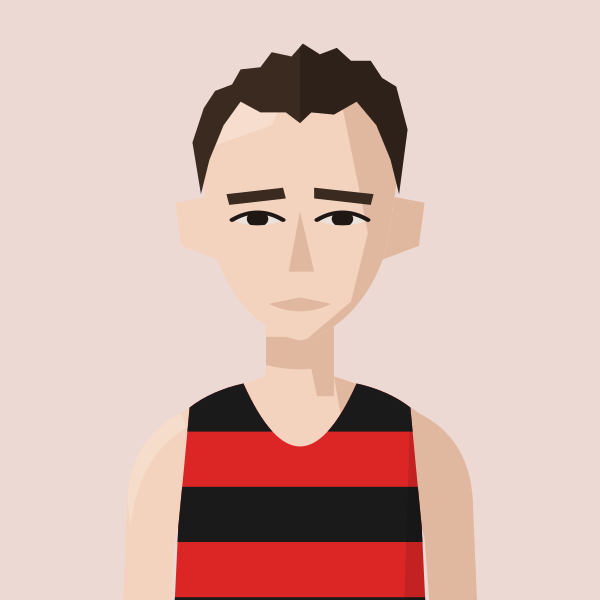
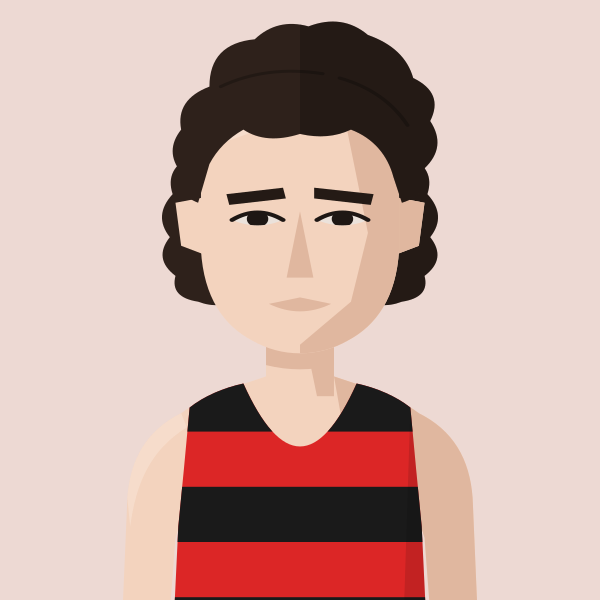
Redraw Dave Glassborow portrait: bushy hair, round face, big chin
Claude-Session: https://claude.ai/code/session_01MgmDWhFqnSSnP4iBLKXUZC

Changed region(s): [[0.27, 0.03, 0.75, 0.57], [0.45, 0.54, 0.51, 0.6], [0.48, 0.45, 0.54, 0.48]]

diff --git a/files/index.html b/files/index.html
@@ -887,7 +887,7 @@ const portraitFile=(name,club)=>{const k=normalizeNameForCompare(name||'').repla
 const portraitClubOf=(name,clubs)=>{for(const c of clubs||[]){if(c&&portraitFile(name,c))return c;}return null;}; /* first of these clubs we have a portrait for */
 // Athlete header figure: superstar portrait if we have one, else a grey runner in the club vest, else the plain vest icon
 // Changes whenever any portrait changes (set by tools/build_og.py), so browsers fetch fresh images instead of old cached ones
-const PORTRAIT_V='babcc696';const PORTRAIT_WOMEN='abbey-brooke,abbie-bulbulian,adele-prince,aimee-hargreaves,aisling-ahern,alex-brown,alex-gandee,alex-marginean,alex-miller,alexa-parker,alexandra-barbour,alice-braham,alice-bridger-morales,alice-crane,alice-martin,alice-reed,alice-smith,alison-purnell,alison-thomson,amelia-pettitt,amy-clements,andrea-barber,anika-schwarze-chintapatla,anna-garnier,anna-garnier-hw,anna-sharp,annabel-hobday,annabelle-hadlow,anne-hegvold,annmarie-seymour,ava-mcandie,becky-briggs,bethan-goddard,bethanie-murray,bethany-brown,betsy-griffiths,billie-mcclosky,camilla-barden,caoimhe-nic-fhogartaigh,carolyne-baxter,catherine-bryson,catherine-eastham,catherine-kandie,cathy-ansell,charlotte-griffiths,chloe-beckett,chloe-tighe,chrissie-wellington,claire-grima,clara-pettit,clare-elms,clare-pauzers,dillan-quinn,dorchie-cockerell,eilidh-hide,elinor-skinner,eliza-grant,elizabeth-apsley,elizabeth-stavreski,ella-fennelly,ella-king-powrie,ella-may-hards,ella-newton,ellen-weir,ellie-brown,ellie-freeden,eloise-bull,emilie-arnoux,emily-barrett,emily-bradley,emily-lowery,emily-robbins,emma-bond,emma-gordon,emma-howsham,emma-lord,emma-rowland,estle-viljoen,evie-warren,felicity-cole,felicity-harrison,felicity-hayward,fi-maddocks,fiona-clark,fiona-de-mauny,florence-wiggins,gabby-collison,gabriel-reynolds,gemma-newport,genevieve-blanch,georgia-curry,georgie-bruinvels,georgie-fenn,georgie-furze,georgie-grgec,gina-galbraith,grace-leyland,grace-richardson,hannah-edwards,hannah-english,hayley-munn,hayley-munn-cc,heather-statham,heather-statham-cc,helen-alsop,helena-corbin,helena-keenan,holly-nixon,holly-pan,imogen-mackie,imogen-wolsey,iona-cousland,isabel-bradley,isabel-brinsden,isabel-hodder,isabelle-pickett,jennifer-nandi,jennifer-smith,jess-reed,jess-saunders,jess-winfield,jessica-davies,jessica-lowe,jodie-favell,jon-hobbs,josephine-rhodes,julia-bleasdale,julia-wedmore,juliet-hodder,juliette-clark,jurgita-levertaviciute,justine-lynch,karen-fenner,karen-xiang,karina-box,kate-axford,kate-williams,kathy-sharpe,katie-ellen-french,katie-good,katie-snowden,katy-hedgethorne,kitty-shepherd-cross,kristina-popadich,lara-bromilow,lara-mangan,laura-goodson,laura-miles,lauren-major,lea-adamson,lily-newton,lisa-bailey,lisa-thomas,lisa-thomas-hw,lizzie-goldie-scot,louise-cooper,lucy-jones,lucy-macalister,lucy-peters,lydia-blackmore,lydia-gallyer-barnett,maddie-mastrolonardo,maddy-whitman,maeve-kenny,margaret-coogan,martina-conner,mary-james,mary-setyabule,matilde-lomba,megan-gildea,mel-wilkins,mhairi-hall,mimi-corden-lloyd,molly-oconnor,molly-smith,monika-gajek,naomi-lenane,natalie-beadle,natalie-seymour,natasha-lodge,niamh-thompson,nicky-hayes,nicola-cartlidge,nicola-douglas,nikki-haines,nikki-sturzaker,nina-mills,olivia-papaioannou,olivia-stillman,orna-mcginley,pamela-mchutchon,patricia-walker,patrizia-gnoato,penny-oliver,rachel-brown,rebecca-barrow,rebekah-edgar,rosie-powell,ruby-carter,ruby-whyte-wilding,ruby-woolfe,sally-urquhart,sally-young,sally-young-slh,sam-whiting,samantha-munday,sarah-astin,sarah-dewhirst,sarah-grover,sarah-hanley,sarah-holt,sarah-murphy,sarah-palmer,sarah-palmer-ran,sarah-riceman,sarah-young,saron-haileselase,serena-carter,sophie-cowper,sophie-harris,sophie-hicks,sophie-tooley,stacey-ward,steph-hewitt,steph-mccall,steph-mccall-cc,steph-mccall-slh,steph-mitchell,suzanne-swaine,suze-spalding,suzie-harvey,suzy-whatmough,syreeta-stracey,teresa-murphy,tilly-heaton,tilly-heaton-bel,tish-jones,vic-cartwright,vicky-clarke,vicky-edwards,victoria-barthelmess,victoria-buck,vikki-filsell,zoe-doyle,zoe-macdonald,zuzana-nemeckova';const PORTRAIT_MEN='aaron-wilson,abdulla-elsadig,adam-leane,adrian-major,adrien-royer,alan-black,alan-mead,alex-brecker,alex-bruce-littlewood,alex-gutteridge,alex-harris,alex-howard,alex-janiaud,alex-lee,alex-lennon,alex-mills,alex-milne,alex-morales,alex-robinson,alex-yee,alexander-marks,alister-moses,amittai-ben-israel,andrew-cumine,andrew-green,andrew-penney,andrew-perfect,andrew-simms,andrew-warburton,andrius-jaksevicius,andy-coley-maud,andy-coley-maud-cc,andy-fyfe,andy-north,andy-paton,andy-thomas,andy-thomas-thh,andy-weir,angus-butler,angus-lamb,anisse-ismaili,arlo-ludewick,arne-dumez,arthur-peel,ashley-goncalves,barnaby-day,barry-collins,barry-sawyer,ben-clarke,ben-coughlan,ben-harding,ben-hurley,ben-ireland,ben-millar,ben-paviour,ben-pearce,ben-racle,ben-revill,ben-reynolds,ben-scott,ben-toomer,benedict-whitby,benjamin-hilson,bernie-ford,bill-kerr,bill-weller,bill-weller-wal,bob-harrison,bob-holt,bob-lunnon,bob-rayman,bob-smith,bob-treadwell,bradley-courtney-pinn,brandon-dewar,brian-gorman,brian-wilder,caleb-hathaway,callum-stewart,cameron-dockerill,cameron-reilly,carl-delaney,charles-herrington,charlie-dabbs,charlie-dickinson,charlie-eastaugh,charlie-manning,charlie-pickett,charlie-rogers,charlie-sandison,charlie-walker,charlie-wyllie,che-compton,chris-busaileh,chris-busaileh-hhh,chris-greenwood,chris-keavey,chris-moss,chris-steer,chris-threadgold,chris-warren,christian-lee,christopher-parker,clive-gilby,clive-shippen,colin-high,colin-pearson,conall-mcnally,conall-whelan,craig-ruddy,dame-dibaba,dan-cliffe,dan-pettitt,daniel-shaw,daniel-wolff,darren-mead,dave-beard,dave-beaver,dave-clarke,dave-glassborow,dave-hill,dave-holt,dave-taylor,david-anderson,david-bowers,david-grima,david-north,david-ogden,david-symons,david-walsh,david-williams,deron-fagan,dick-piotrowski,dimos-evangelidis,dom-nolan,dominic-kiralyfi,don-anderson,don-faircloth,don-maclean,doug-maughan,duncan-rimmer,dylan-evans,dylan-mitchard,ed-brewer,ed-catmur,ed-gibson,ed-mallett,ed-prickett,eddie-herridge,eddie-jodrell,eddie-rolls,edward-chuck,eoin-brady,eoin-molloy,ethan-mccolgan,falilou-kebe,findlay-dyer,finn-johnson,fintan-pearce,frank-tickner,frank-ward,fred-paget,fred-slemeck,fred-stebbings,freddie-hessian,garret-lee,gary-ribbons,gary-ribbons-ee,gary-staines,gary-staines-bel,gavin-eccles,geoff-biscoe,geoff-jerwood,geoff-north,george-cotton,george-gathercole,george-jackson,george-loxton,george-mallett,george-ogden,gerry-adams,gerry-north,glen-keegan,gordon-pearce,graham-macky,grenville-tuck,harrison-hayman,harry-guttridge,hector-revill,henry-hart,henry-silverstein,hugo-hewitt,huw-lobb,ian-acreman,ian-crowe-wright,ian-ellwood,ian-harkness,indy-barnes,isaac-lutaya,isaac-parker,jack-brotchie,jack-dickson,jack-dormer,jack-hampshire,jack-harrison,jack-hobden,jack-kavanagh,jack-millar,jack-ramm,jack-woods,jacob-brockmann,jake-simmonds,james-bartram,james-blackwood,james-bowler,james-estall,james-ewing,james-fox,james-hancock,james-harvey,james-hoad,james-kelly,james-mcmullan,james-murray,james-nutt,james-preston,james-roberts,james-stockings,james-ward,james-wootton,jamie-crowe,jamie-parkinson,jared-martin,jean-paul-wright,jeff-cunningham,jeremy-dempsey,jermaine-mays,jerry-watson,jim-allchin,jim-rimmer,joachim-wolf,joe-english,joe-hartley,john-baker,john-bicourt,john-bromley,john-davies,john-dear,john-foss,john-foxall,john-gilbert,john-gladwin,john-hutchins,john-kendall,john-kimaiyo,john-lee,john-lethbridge,john-mather,john-moore,john-roberts,john-sanderson,john-snowden,john-stow,john-sullivan,john-thresher,jon-pepper,jon-pepper-slh,jon-phillips,jon-solly,jonathan-cocker,jonathan-collier,jonathan-cornish,jonathan-ratcliffe,jonathan-tipper,jonny-neville,jonny-scott,jordan-weaver,josh-mitchell,josh-snow,josh-trigwell,jules-gevers,junior-galley,justin-chaston,justin-reid,kassa-tadesse,keith-newton,ken-penney,ken-penney-cro,kevin-nash,kevin-quinn,kevin-sturman,kieran-barnes,kieran-white,knut-hegvold,knut-hegvold-bel,larry-ryan,lawrence-avery,lee-lintern,leo-coy,les-presland,les-presland-sur,lewis-lloyd,liam-burthem,lionel-mann,lloyd-kempson,luke-caldwell,macgregor-cox,mack-downie,malachi-byansi,marcello-bizio,marcelo-fortes,marco-mazzotta,mark-anderson,mark-miles,mark-sinclair,mark-tennyson,mark-waller,martin-dent,martin-duff,martin-lake,martin-lewington,martin-shore,mathew-speed,matt-chaston,matt-jones,matt-wood,matt-yates,matthew-edgar,matthew-houchell,matthew-thomas,matthew-varley,max-bloor,max-heyden,max-milarvie,max-nicholls,michael-baker,michael-mccarthy,mick-gowan,mick-woods,mike-beevor,mike-boyle,mike-cummings,mike-farmery,mike-fuller,mike-hayes,mike-kortenray,mike-nouch,mohammed-ismail,monty-hudson,morgan-roberts,nathan-visick,neil-chisholm,neil-phillips,neil-speaight,neil-wilson,nic-lukies,nick-acfield,nick-altmann,nick-bester,nick-bester-hhh,nick-buckle,nick-bundle,nick-goolab,nick-lightfoot,nick-morris,nick-torry,noah-fernandez,norman-stairs,oli-carrington,oliver-carrington,oliver-fox,oliver-reynolds,oliver-young,ollie-foote,ollie-garrod,olly-buck,owen-hind,paddy-roddy,pancho-panchev,paskar-owor,pat-newell,patrick-mcdougall,paul-calver,paul-cheetham,paul-evans,paul-freary,paul-magner,paul-pollock,paul-sanderson,paul-sanderson-wok,pete-carton,pete-gardner,peter-clarke,peter-giles,peter-giles-thh,peter-lighting,phil-carstairs,phil-sanders,phil-sesemann,phil-swinburn,phil-wicks,phil-woodford-smith,raj-paranandi,ralph-street,ranjit-bhatia,ray-foley,reece-edwards,rhys-boorman,rian-mccawley,richard-ashe,richard-giles,richard-henderson,richard-langley,richard-mcdowell,richard-ollington,richard-partridge,richard-sun,richard-ward,rob-armstrong,rob-kelly,rob-tuer,robert-elphick,robert-laing,robert-norville,robert-peacock,robert-sesemann,robin-boon,robin-hudson,roger-alsop,roger-alsop-bel,roger-hackney,ron-clark,ron-linstead,ronan-tanguy,rory-mcmahon,rory-orsborn,ross-braden,ross-christie,rowan-board,rowan-crichton,russell-dessaix-chin,ryan-hickey,ryan-mccallister,sam-bramwell,sam-charlton,sam-gebreselassie,sam-haughian,sam-peters,sam-sommerville,sam-tyas,samuel-dames,samuel-wilcock,sean-cordon,sebastian-anthony,simon-baines,simon-coombes,simon-coppard,simon-fairbrother,simon-holmes,simon-rayner,simon-rayner-hw,simon-wade,simon-wade-hhh,simon-waterhouse,simon-williams,simon-wurr,sonny-nicoll,spencer-barden,stephen-mcleod,stephen-sharp,steve-badgery,steve-badgery-mit,steve-gardner,steve-jones,steve-smythe,steve-smythe-hhh,stuart-beaney,stuart-major,stuart-major-thh,stuart-mccallum,stuart-paton,terry-booth,thomas-dugre,thomas-gandee,thomas-gardner,thomas-renshaw,tim-alexander,tim-eglen,tim-lawrence,tim-watson,toby-cooke,toby-fletcher,tom-austin,tom-cheetham,tom-conlon,tom-davies,tom-gifford,tom-higgs,tom-jervis,tom-lole,tom-south,tom-thornley,tommy-taylor,tony-binda,tony-fairclough,tony-harran,trevor-hart,trevor-williams,valdis-pauzers,valentin-rigori,vic-maughan,wayne-oxborough,will-cockerell,will-lewis,will-marshall,will-scott,will-stockley,william-gardner,yacin-yusuf,zach-nolan';
+const PORTRAIT_V='4b6464d2';const PORTRAIT_WOMEN='abbey-brooke,abbie-bulbulian,adele-prince,aimee-hargreaves,aisling-ahern,alex-brown,alex-gandee,alex-marginean,alex-miller,alexa-parker,alexandra-barbour,alice-braham,alice-bridger-morales,alice-crane,alice-martin,alice-reed,alice-smith,alison-purnell,alison-thomson,amelia-pettitt,amy-clements,andrea-barber,anika-schwarze-chintapatla,anna-garnier,anna-garnier-hw,anna-sharp,annabel-hobday,annabelle-hadlow,anne-hegvold,annmarie-seymour,ava-mcandie,becky-briggs,bethan-goddard,bethanie-murray,bethany-brown,betsy-griffiths,billie-mcclosky,camilla-barden,caoimhe-nic-fhogartaigh,carolyne-baxter,catherine-bryson,catherine-eastham,catherine-kandie,cathy-ansell,charlotte-griffiths,chloe-beckett,chloe-tighe,chrissie-wellington,claire-grima,clara-pettit,clare-elms,clare-pauzers,dillan-quinn,dorchie-cockerell,eilidh-hide,elinor-skinner,eliza-grant,elizabeth-apsley,elizabeth-stavreski,ella-fennelly,ella-king-powrie,ella-may-hards,ella-newton,ellen-weir,ellie-brown,ellie-freeden,eloise-bull,emilie-arnoux,emily-barrett,emily-bradley,emily-lowery,emily-robbins,emma-bond,emma-gordon,emma-howsham,emma-lord,emma-rowland,estle-viljoen,evie-warren,felicity-cole,felicity-harrison,felicity-hayward,fi-maddocks,fiona-clark,fiona-de-mauny,florence-wiggins,gabby-collison,gabriel-reynolds,gemma-newport,genevieve-blanch,georgia-curry,georgie-bruinvels,georgie-fenn,georgie-furze,georgie-grgec,gina-galbraith,grace-leyland,grace-richardson,hannah-edwards,hannah-english,hayley-munn,hayley-munn-cc,heather-statham,heather-statham-cc,helen-alsop,helena-corbin,helena-keenan,holly-nixon,holly-pan,imogen-mackie,imogen-wolsey,iona-cousland,isabel-bradley,isabel-brinsden,isabel-hodder,isabelle-pickett,jennifer-nandi,jennifer-smith,jess-reed,jess-saunders,jess-winfield,jessica-davies,jessica-lowe,jodie-favell,jon-hobbs,josephine-rhodes,julia-bleasdale,julia-wedmore,juliet-hodder,juliette-clark,jurgita-levertaviciute,justine-lynch,karen-fenner,karen-xiang,karina-box,kate-axford,kate-williams,kathy-sharpe,katie-ellen-french,katie-good,katie-snowden,katy-hedgethorne,kitty-shepherd-cross,kristina-popadich,lara-bromilow,lara-mangan,laura-goodson,laura-miles,lauren-major,lea-adamson,lily-newton,lisa-bailey,lisa-thomas,lisa-thomas-hw,lizzie-goldie-scot,louise-cooper,lucy-jones,lucy-macalister,lucy-peters,lydia-blackmore,lydia-gallyer-barnett,maddie-mastrolonardo,maddy-whitman,maeve-kenny,margaret-coogan,martina-conner,mary-james,mary-setyabule,matilde-lomba,megan-gildea,mel-wilkins,mhairi-hall,mimi-corden-lloyd,molly-oconnor,molly-smith,monika-gajek,naomi-lenane,natalie-beadle,natalie-seymour,natasha-lodge,niamh-thompson,nicky-hayes,nicola-cartlidge,nicola-douglas,nikki-haines,nikki-sturzaker,nina-mills,olivia-papaioannou,olivia-stillman,orna-mcginley,pamela-mchutchon,patricia-walker,patrizia-gnoato,penny-oliver,rachel-brown,rebecca-barrow,rebekah-edgar,rosie-powell,ruby-carter,ruby-whyte-wilding,ruby-woolfe,sally-urquhart,sally-young,sally-young-slh,sam-whiting,samantha-munday,sarah-astin,sarah-dewhirst,sarah-grover,sarah-hanley,sarah-holt,sarah-murphy,sarah-palmer,sarah-palmer-ran,sarah-riceman,sarah-young,saron-haileselase,serena-carter,sophie-cowper,sophie-harris,sophie-hicks,sophie-tooley,stacey-ward,steph-hewitt,steph-mccall,steph-mccall-cc,steph-mccall-slh,steph-mitchell,suzanne-swaine,suze-spalding,suzie-harvey,suzy-whatmough,syreeta-stracey,teresa-murphy,tilly-heaton,tilly-heaton-bel,tish-jones,vic-cartwright,vicky-clarke,vicky-edwards,victoria-barthelmess,victoria-buck,vikki-filsell,zoe-doyle,zoe-macdonald,zuzana-nemeckova';const PORTRAIT_MEN='aaron-wilson,abdulla-elsadig,adam-leane,adrian-major,adrien-royer,alan-black,alan-mead,alex-brecker,alex-bruce-littlewood,alex-gutteridge,alex-harris,alex-howard,alex-janiaud,alex-lee,alex-lennon,alex-mills,alex-milne,alex-morales,alex-robinson,alex-yee,alexander-marks,alister-moses,amittai-ben-israel,andrew-cumine,andrew-green,andrew-penney,andrew-perfect,andrew-simms,andrew-warburton,andrius-jaksevicius,andy-coley-maud,andy-coley-maud-cc,andy-fyfe,andy-north,andy-paton,andy-thomas,andy-thomas-thh,andy-weir,angus-butler,angus-lamb,anisse-ismaili,arlo-ludewick,arne-dumez,arthur-peel,ashley-goncalves,barnaby-day,barry-collins,barry-sawyer,ben-clarke,ben-coughlan,ben-harding,ben-hurley,ben-ireland,ben-millar,ben-paviour,ben-pearce,ben-racle,ben-revill,ben-reynolds,ben-scott,ben-toomer,benedict-whitby,benjamin-hilson,bernie-ford,bill-kerr,bill-weller,bill-weller-wal,bob-harrison,bob-holt,bob-lunnon,bob-rayman,bob-smith,bob-treadwell,bradley-courtney-pinn,brandon-dewar,brian-gorman,brian-wilder,caleb-hathaway,callum-stewart,cameron-dockerill,cameron-reilly,carl-delaney,charles-herrington,charlie-dabbs,charlie-dickinson,charlie-eastaugh,charlie-manning,charlie-pickett,charlie-rogers,charlie-sandison,charlie-walker,charlie-wyllie,che-compton,chris-busaileh,chris-busaileh-hhh,chris-greenwood,chris-keavey,chris-moss,chris-steer,chris-threadgold,chris-warren,christian-lee,christopher-parker,clive-gilby,clive-shippen,colin-high,colin-pearson,conall-mcnally,conall-whelan,craig-ruddy,dame-dibaba,dan-cliffe,dan-pettitt,daniel-shaw,daniel-wolff,darren-mead,dave-beard,dave-beaver,dave-clarke,dave-glassborow,dave-hill,dave-holt,dave-taylor,david-anderson,david-bowers,david-grima,david-north,david-ogden,david-symons,david-walsh,david-williams,deron-fagan,dick-piotrowski,dimos-evangelidis,dom-nolan,dominic-kiralyfi,don-anderson,don-faircloth,don-maclean,doug-maughan,duncan-rimmer,dylan-evans,dylan-mitchard,ed-brewer,ed-catmur,ed-gibson,ed-mallett,ed-prickett,eddie-herridge,eddie-jodrell,eddie-rolls,edward-chuck,eoin-brady,eoin-molloy,ethan-mccolgan,falilou-kebe,findlay-dyer,finn-johnson,fintan-pearce,frank-tickner,frank-ward,fred-paget,fred-slemeck,fred-stebbings,freddie-hessian,garret-lee,gary-ribbons,gary-ribbons-ee,gary-staines,gary-staines-bel,gavin-eccles,geoff-biscoe,geoff-jerwood,geoff-north,george-cotton,george-gathercole,george-jackson,george-loxton,george-mallett,george-ogden,gerry-adams,gerry-north,glen-keegan,gordon-pearce,graham-macky,grenville-tuck,harrison-hayman,harry-guttridge,hector-revill,henry-hart,henry-silverstein,hugo-hewitt,huw-lobb,ian-acreman,ian-crowe-wright,ian-ellwood,ian-harkness,indy-barnes,isaac-lutaya,isaac-parker,jack-brotchie,jack-dickson,jack-dormer,jack-hampshire,jack-harrison,jack-hobden,jack-kavanagh,jack-millar,jack-ramm,jack-woods,jacob-brockmann,jake-simmonds,james-bartram,james-blackwood,james-bowler,james-estall,james-ewing,james-fox,james-hancock,james-harvey,james-hoad,james-kelly,james-mcmullan,james-murray,james-nutt,james-preston,james-roberts,james-stockings,james-ward,james-wootton,jamie-crowe,jamie-parkinson,jared-martin,jean-paul-wright,jeff-cunningham,jeremy-dempsey,jermaine-mays,jerry-watson,jim-allchin,jim-rimmer,joachim-wolf,joe-english,joe-hartley,john-baker,john-bicourt,john-bromley,john-davies,john-dear,john-foss,john-foxall,john-gilbert,john-gladwin,john-hutchins,john-kendall,john-kimaiyo,john-lee,john-lethbridge,john-mather,john-moore,john-roberts,john-sanderson,john-snowden,john-stow,john-sullivan,john-thresher,jon-pepper,jon-pepper-slh,jon-phillips,jon-solly,jonathan-cocker,jonathan-collier,jonathan-cornish,jonathan-ratcliffe,jonathan-tipper,jonny-neville,jonny-scott,jordan-weaver,josh-mitchell,josh-snow,josh-trigwell,jules-gevers,junior-galley,justin-chaston,justin-reid,kassa-tadesse,keith-newton,ken-penney,ken-penney-cro,kevin-nash,kevin-quinn,kevin-sturman,kieran-barnes,kieran-white,knut-hegvold,knut-hegvold-bel,larry-ryan,lawrence-avery,lee-lintern,leo-coy,les-presland,les-presland-sur,lewis-lloyd,liam-burthem,lionel-mann,lloyd-kempson,luke-caldwell,macgregor-cox,mack-downie,malachi-byansi,marcello-bizio,marcelo-fortes,marco-mazzotta,mark-anderson,mark-miles,mark-sinclair,mark-tennyson,mark-waller,martin-dent,martin-duff,martin-lake,martin-lewington,martin-shore,mathew-speed,matt-chaston,matt-jones,matt-wood,matt-yates,matthew-edgar,matthew-houchell,matthew-thomas,matthew-varley,max-bloor,max-heyden,max-milarvie,max-nicholls,michael-baker,michael-mccarthy,mick-gowan,mick-woods,mike-beevor,mike-boyle,mike-cummings,mike-farmery,mike-fuller,mike-hayes,mike-kortenray,mike-nouch,mohammed-ismail,monty-hudson,morgan-roberts,nathan-visick,neil-chisholm,neil-phillips,neil-speaight,neil-wilson,nic-lukies,nick-acfield,nick-altmann,nick-bester,nick-bester-hhh,nick-buckle,nick-bundle,nick-goolab,nick-lightfoot,nick-morris,nick-torry,noah-fernandez,norman-stairs,oli-carrington,oliver-carrington,oliver-fox,oliver-reynolds,oliver-young,ollie-foote,ollie-garrod,olly-buck,owen-hind,paddy-roddy,pancho-panchev,paskar-owor,pat-newell,patrick-mcdougall,paul-calver,paul-cheetham,paul-evans,paul-freary,paul-magner,paul-pollock,paul-sanderson,paul-sanderson-wok,pete-carton,pete-gardner,peter-clarke,peter-giles,peter-giles-thh,peter-lighting,phil-carstairs,phil-sanders,phil-sesemann,phil-swinburn,phil-wicks,phil-woodford-smith,raj-paranandi,ralph-street,ranjit-bhatia,ray-foley,reece-edwards,rhys-boorman,rian-mccawley,richard-ashe,richard-giles,richard-henderson,richard-langley,richard-mcdowell,richard-ollington,richard-partridge,richard-sun,richard-ward,rob-armstrong,rob-kelly,rob-tuer,robert-elphick,robert-laing,robert-norville,robert-peacock,robert-sesemann,robin-boon,robin-hudson,roger-alsop,roger-alsop-bel,roger-hackney,ron-clark,ron-linstead,ronan-tanguy,rory-mcmahon,rory-orsborn,ross-braden,ross-christie,rowan-board,rowan-crichton,russell-dessaix-chin,ryan-hickey,ryan-mccallister,sam-bramwell,sam-charlton,sam-gebreselassie,sam-haughian,sam-peters,sam-sommerville,sam-tyas,samuel-dames,samuel-wilcock,sean-cordon,sebastian-anthony,simon-baines,simon-coombes,simon-coppard,simon-fairbrother,simon-holmes,simon-rayner,simon-rayner-hw,simon-wade,simon-wade-hhh,simon-waterhouse,simon-williams,simon-wurr,sonny-nicoll,spencer-barden,stephen-mcleod,stephen-sharp,steve-badgery,steve-badgery-mit,steve-gardner,steve-jones,steve-smythe,steve-smythe-hhh,stuart-beaney,stuart-major,stuart-major-thh,stuart-mccallum,stuart-paton,terry-booth,thomas-dugre,thomas-gandee,thomas-gardner,thomas-renshaw,tim-alexander,tim-eglen,tim-lawrence,tim-watson,toby-cooke,toby-fletcher,tom-austin,tom-cheetham,tom-conlon,tom-davies,tom-gifford,tom-higgs,tom-jervis,tom-lole,tom-south,tom-thornley,tommy-taylor,tony-binda,tony-fairclough,tony-harran,trevor-hart,trevor-williams,valdis-pauzers,valentin-rigori,vic-maughan,wayne-oxborough,will-cockerell,will-lewis,will-marshall,will-scott,will-stockley,william-gardner,yacin-yusuf,zach-nolan';
 // Runners whose dog pops up on their own profile page (a -dog.svg version of their portrait)
 const PROFILE_DOGS=new Set(['john-sanderson','penny-oliver','james-hancock','angus-butler']);
 const AthletePortrait=({name,club,w,fill,onClick,blink})=>{const[failed,setFailed]=useState(false);const file=portraitFile(name,club);const src0=file?`/portraits/athletes/${file}.svg?v=${PORTRAIT_V}`:PORTRAIT_CLUBS.has(club)?`/portraits/clubs/${club.replace(/\//g,'').replace(/&/g,'and')}.svg?v=${PORTRAIT_V}`:null;const blinkSrc=useBlinkSrc(file?(PROFILE_DOGS.has(file)?`/portraits/athletes/${file}-dog.svg?v=${PORTRAIT_V}`:src0):null,!!blink);const src=blinkSrc||src0;if(!src||failed)return<div onClick={onClick} className={onClick?'cursor-pointer':''}><ClubShield club={club} size={w}/></div>;const h=Math.round(w*148/126),ih=Math.round(w*1.4);if(fill)return<div onClick={onClick} className="cursor-pointer" style={{alignSelf:'stretch',minHeight:h,aspectRatio:'126 / 148',flexShrink:0,position:'relative',borderRadius:4,overflow:'hidden'}}><img src={src} alt={file?`Portrait of ${name.replace(/\s*\([^)]*\)$/,'')}`:`Runner in ${CLUBS[club]?.name||club} vest`} style={{position:'absolute',top:0,left:0,display:'block',width:'100%',height:'auto'}} onError={()=>setFailed(true)}/></div>;return<div style={{width:w,height:h,borderRadius:4,overflow:'hidden',flexShrink:0}}><img src={src} alt={file?`Portrait of ${name.replace(/\s*\([^)]*\)$/,'')}`:`Runner in ${CLUBS[club]?.name||club} vest`} width={w} height={ih} style={{display:'block',width:w,height:ih}} onError={()=>setFailed(true)}/></div>;};

diff --git a/tools/gen_portraits.py b/tools/gen_portraits.py
@@ -2202,4 +2202,8 @@ def _athomas(kit):
     return nose(eyes(figure(kit, skin=1, hair="fringe", hair_colour="#3A2620", brow_colour="#2A1D16", jaw="long", glasses=True, creases=True), None, 0), 1.05, 1.25)
 save("andy-thomas", _athomas("HHH"))
 save("andy-thomas-thh", _athomas("THH"))
+# Round face with a big, full chin (Oct 2026, first used for Dave Glassborow); swap in for the default HEAD
+HEAD_ROUNDCHIN = "M65,96 C63,58 80,40 100,40 C120,40 137,58 135,96 L135,126 C134,148 127,161 117,168 Q109,174 100,174 Q91,174 83,168 C73,161 66,148 65,126 Z"
+# Dave Glassborow (HHH), Oct 2026 redraw: big bushy dark mop over the ears, round face, large chin
+save("dave-glassborow", nose(eyes(figure("HHH", skin=1, hair="seventies", hair_colour="#2E211B", brow_colour="#241A15"), None, 0), 1.05, 1.1).replace(HEAD, HEAD_ROUNDCHIN))
 export_site()
